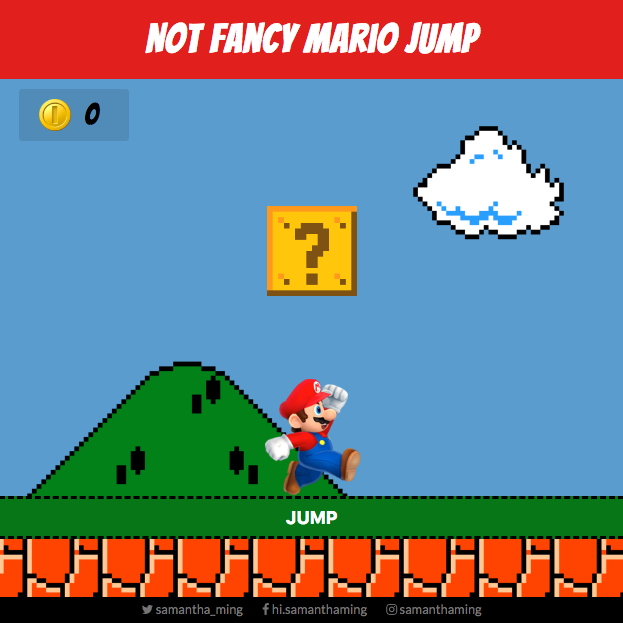
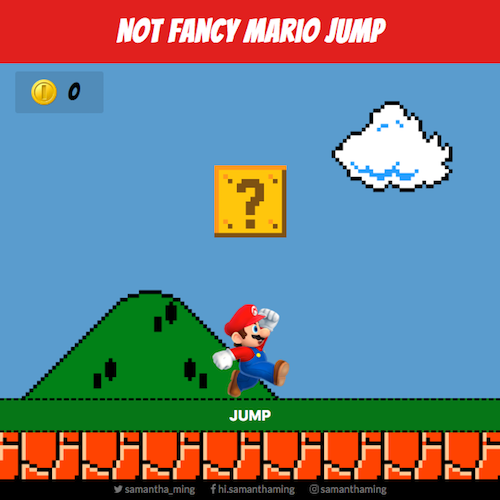
Reduce image size

diff --git a/README.md b/README.md
@@ -23,9 +23,7 @@ Or see it live! [here](https://samanthaming.github.io/not-fancy-css-mario-jump/)
 
 # Notes
 
-Here are the general steps to create your own Not Fancy Mario Jump. There's not much JavaScipt logic in this app. Most of the heavy lifting is done through CSS `@keyframes`. JavaScipt is mainly used to apply the animation class when the button is clicked. There
-
-Add 
+Here are the general steps to create your own Not Fancy Mario Jump. There's not much JavaScipt logic in this app. Most of the heavy lifting is done through CSS `@keyframes`. JavaScipt is mainly used to apply the animation class when the button is clicked.
 
 ## 1. Create the `@keyframes` Animation
 
